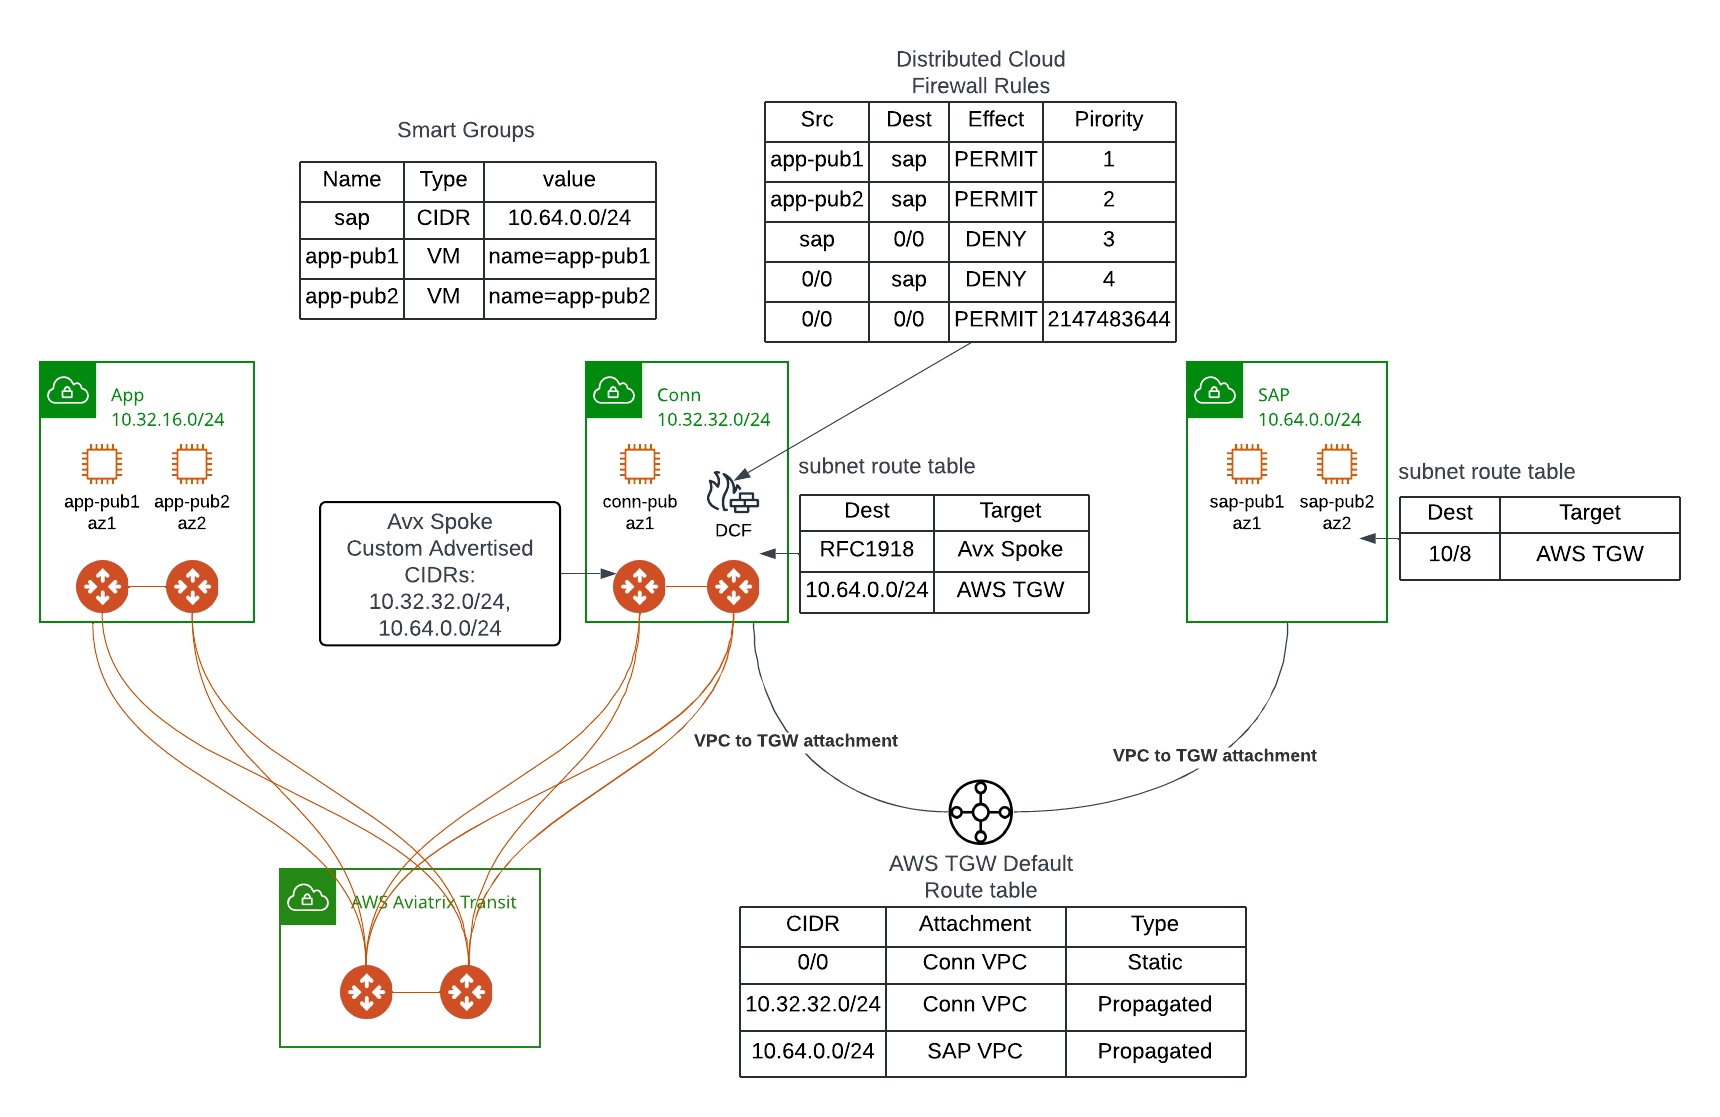
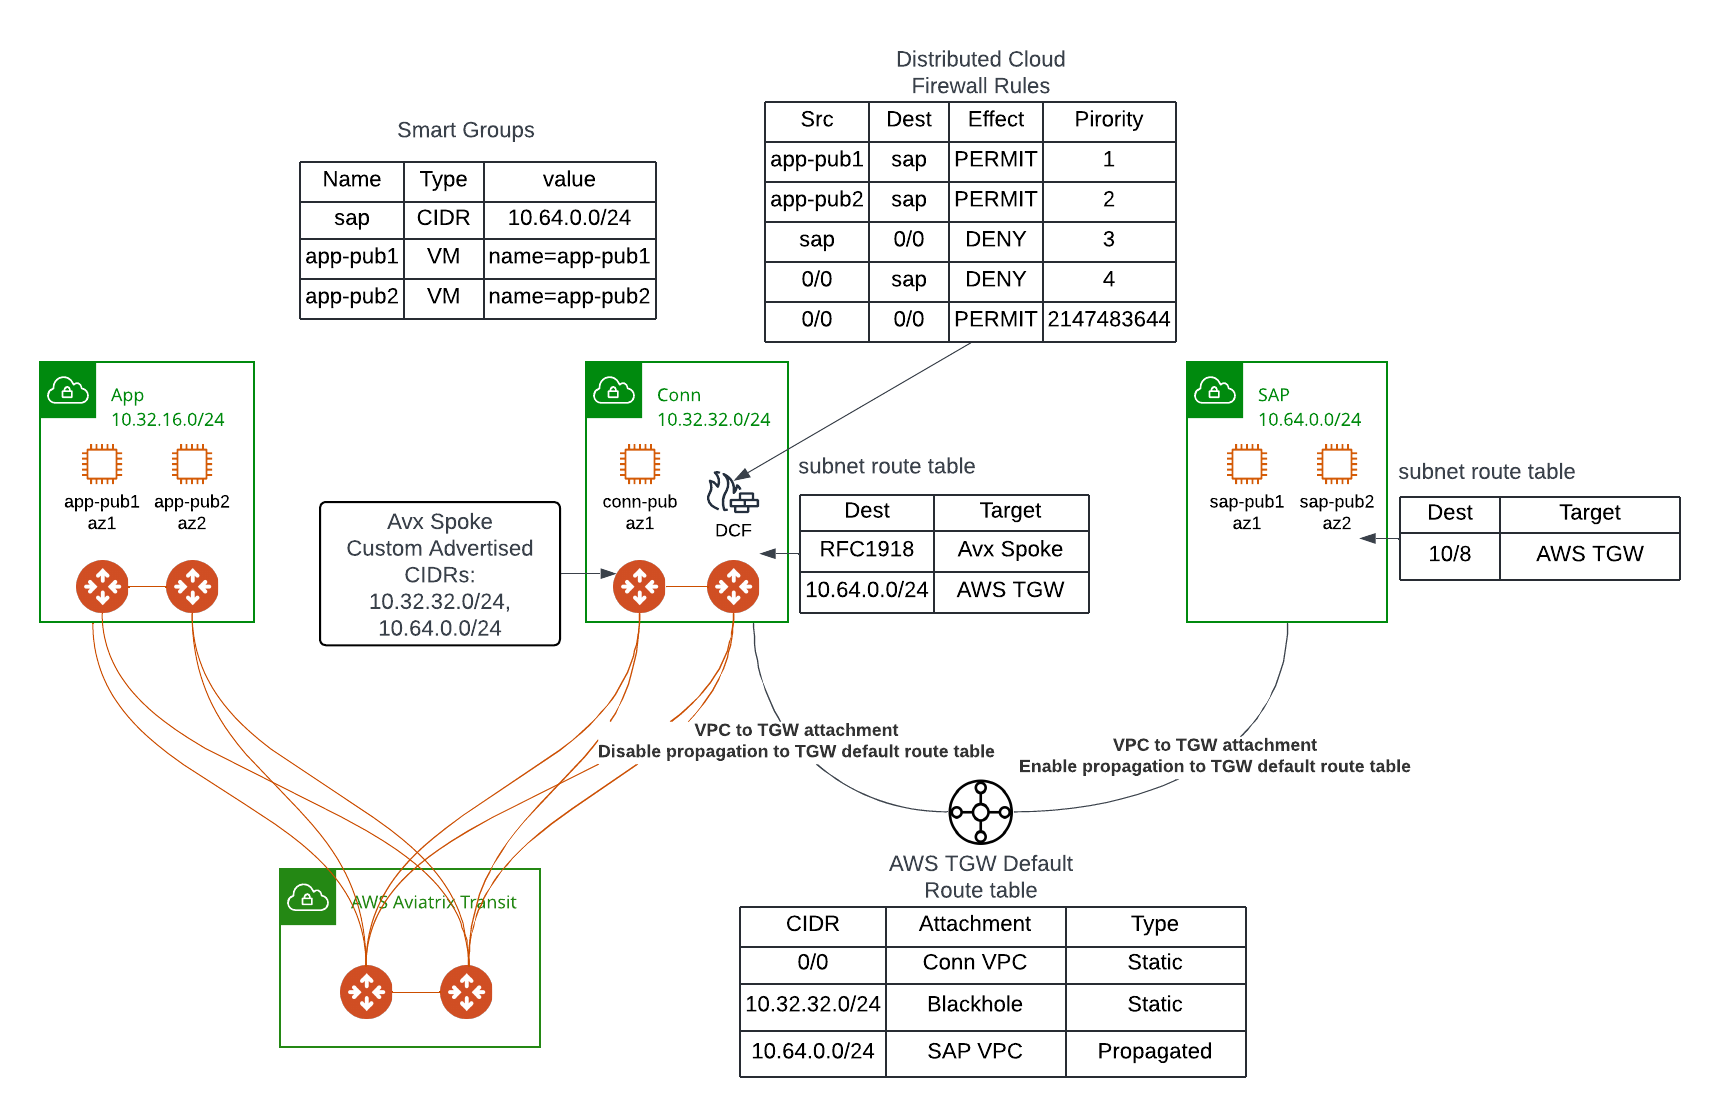
Disable Conn VPC to TGW Default route table propagation. Add blackhole route on TGW default route table for Conn VPC CIDR.

Changed region(s): [[0.339, 0.6392, 0.832, 0.7001], [0.5238, 0.8827, 0.6163, 0.9132], [0.6471, 0.8827, 0.7087, 0.9132]]

diff --git a/README.md b/README.md
@@ -13,11 +13,12 @@
 - Conn Aviatrix Spoke VPC will use AWS TGW to connect to SAP VPC
 - Conn Aviatrix Spoke VPC will perform Custom Spoke Advertised CIDR of both 10.32.32.0/24 and 10.64.0.0/24, so rest of Aviatrix network would know SAP 10.64.0.0/24 would go through Conn Avx Spoke
 - Unmanaged AWS TGW is created with default route table
-- Conn Avx Spoke VPC is attached to AWS TGW
+- Conn Avx Spoke VPC is attached to AWS TGW, disable propagation so Conn VPC CIDR won't be propagated to TGW default route table.
 - SAP VPC is also attached to AWS TGW
 - On Conn Avx Spoke VPC subnet route tables, Aviatrix insert RFC1918 point to Conn Spoke GW. We also add 10.64.0.0/24 to the route table point to AWS TGW
 - On SAP VPC subnet route tables, we added 10/8 (or whatever the Customer Cloud/OnPrem CIDR needs to be) point to AWS TGW
 - In AWS TGW default route table, add static 0/0 point to Conn VPC attachment
+- In AWS TGW default route table, add a blackhole route for Conn VPC CIDR, this blocks direct communication between SAP and Conn VPC.
 
 ## Distributed Cloud Firewall (DCF)
 - Create smart groups for app-pub1 and app-pub2 VMs using name tag
@@ -52,4 +53,4 @@ This is important to consider, as the traffic to SAP would leave from primary GW
 - On app-pub1 and app-pub2, try to connect to sap using iperf3 by running ```iperf3 -P 10 -c {sap_pub_ip}```, replace {sap_pub_ip} with the IP address of sap-pub1 or sap-pub2.
 - Iperf3 test uses TCP and it helps to validate if we have asymetric issue. Don't use ping as ICMP isn't stateful.
 - You can perform the reverse test from sap-pub1/2 back towards app-pub1/2, and confirm they are indeed been blocked.
-- conn-pub and sap-hub1/2 has unrestricted access, as the traffic doesn't go through Aviatrix Spoke, it goes via AWS TGW.
+- Cofirm conn-pub and sap-hub1/2 have no connectivity.
